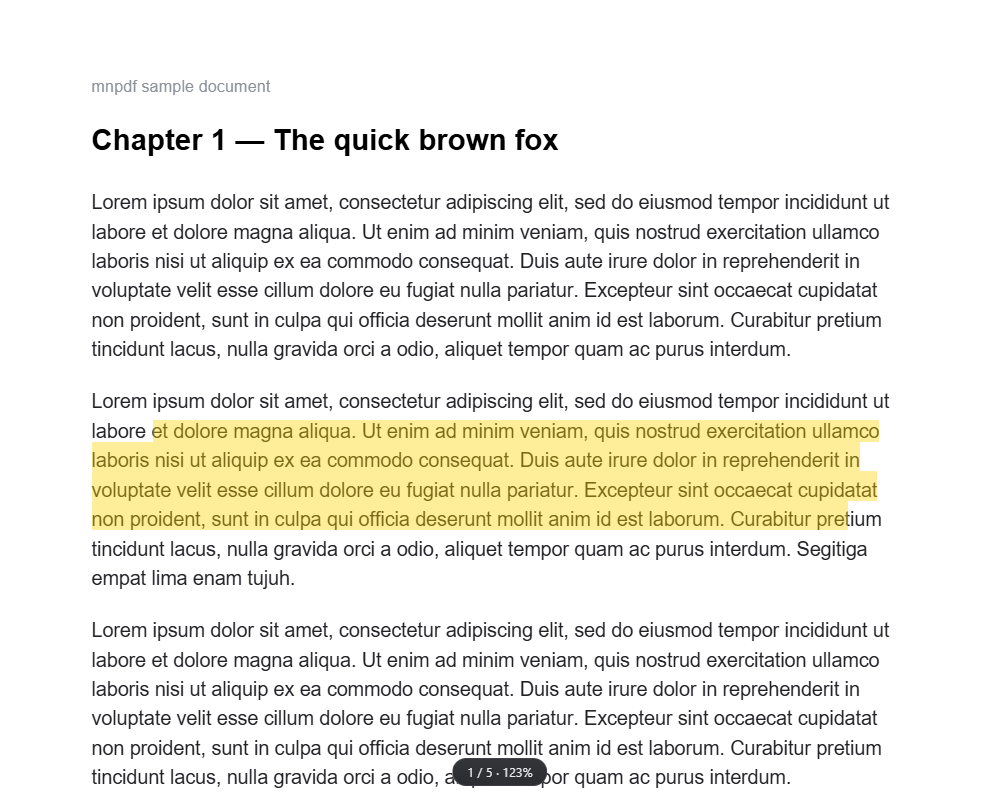
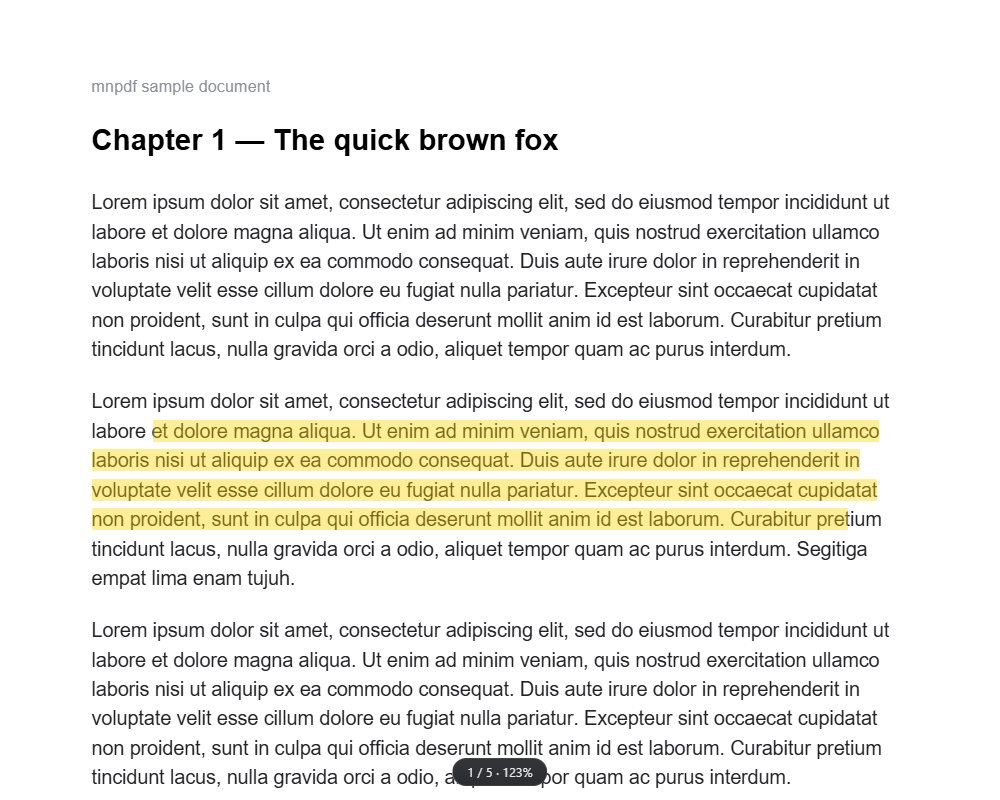
v1.1.1: selection rework — doc-space glyph geometry, per-frame throttled apply, word-mode dblclick-drag, gap-limited continuity

Changed region(s): [[0.093, 0.5312, 0.868, 0.6562]]

diff --git a/src/annos.js b/src/annos.js
@@ -50,17 +50,19 @@ function renderWrapOverlays(i, w, vp) {
 //
 // Chromium's native selection paints stretched/trailing whitespace and
 // overshoots on blank-space drags — unusable on a PDF. So mnpdf prevents it
-// and draws its own selection rectangles from trimmed glyph boxes across ALL
-// pages (the document is one line list in reading order). What is painted
-// blue is exactly what Highlight/Copy act on. The selection persists after
-// release, follows edge auto-scroll across page boundaries, and clears on
-// click/Esc.
+// and draws its own selection rectangles from trimmed glyph boxes across all
+// pages. What is painted blue is exactly what Highlight/Copy act on.
+//
+// All vertical geometry is kept in SCROLLER-DOCUMENT coordinates
+// (viewport y + scrollTop) so the selection stays anchored while edge
+// auto-scroll moves the view. Line boxes are computed once per drag.
 
-let selAnchor = null;   // {node, off, line} — line = entry in the global line list
+let selAnchor = null;   // {node, off, lines, line, wordMode}
 let selState = null;    // {segments: [{srcIdx, rects}], text}
-let selLastApplied = null;
-let selPointer = null;
+let selLastKey = '';
+let selPointer = null;  // {x, y} client coords
 let selRaf = 0;
+let selApplyRaf = 0;
 
 function spanVisibleBox(span) {
   const text = span.textContent || '';
@@ -89,6 +91,15 @@ function spanVisibleBox(span) {
   };
 }
 
+function layerSpans(layer) {
+  const out = [];
+  for (const span of layer.querySelectorAll('span')) {
+    const vis = spanVisibleBox(span);
+    if (vis && vis.bottom - vis.top >= 2 && vis.right - vis.left >= 1) out.push(vis);
+  }
+  return out;
+}
+
 function offsetAtX(vis, x) {
   if (!vis.node || vis.right <= vis.left) return vis.start;
   const frac = (x - vis.left) / (vis.right - vis.left);
@@ -101,42 +112,41 @@ function xOfOffset(vis, off) {
   return vis.left + frac * (vis.right - vis.left);
 }
 
-function layerSpans(layer) {
-  const out = [];
-  for (const span of layer.querySelectorAll('span')) {
-    const vis = spanVisibleBox(span);
-    if (vis && vis.bottom - vis.top >= 2 && vis.right - vis.left >= 1) out.push(vis);
-  }
-  return out;
-}
-
-// every rendered text line of the document, in reading order
+// every rendered text line of the document, in reading order.
+// docTop/docBottom are scroller-document y (stable while the view scrolls).
 function allLines() {
+  const sc = document.getElementById('scroller');
+  const st = sc.scrollTop;
   const out = [];
   document.querySelectorAll('.pagewrap').forEach((wrap) => {
     const layer = wrap.querySelector('.textLayer');
     if (!layer) return;
     const pageIdx = +wrap.dataset.i;
-    for (const vis of layerSpans(layer)) out.push({ wrapEl: wrap, pageIdx, vis });
+    for (const vis of layerSpans(layer)) {
+      out.push({ wrapEl: wrap, pageIdx, vis,
+                 docTop: vis.top + st, docBottom: vis.bottom + st,
+                 lh: vis.bottom - vis.top });
+    }
   });
   return out;
 }
 
-function lineAt(lines, x, y) {
+function lineAt(lines, docY) {
   if (!lines.length) return null;
-  // the line whose CENTER is nearest the pointer — stable in the gaps between
-  // lines and clamps naturally at the first/last line during auto-scroll
+  for (const l of lines) {
+    if (docY >= l.docTop - 2 && docY <= l.docBottom + 2) return l;
+  }
   let best = null, bestD = Infinity;
   for (const l of lines) {
-    const c = (l.vis.top + l.vis.bottom) / 2;
-    const d = Math.abs(y - c);
+    const c = (l.docTop + l.docBottom) / 2;
+    const d = Math.abs(docY - c);
     if (d < bestD) { bestD = d; best = l; }
   }
   return best;
 }
 
-function anchorAt(lines, x, y) {
-  const line = lineAt(lines, x, y);
+function anchorAt(lines, x, docY) {
+  const line = lineAt(lines, docY);
   if (!line) return null;
   const vis = line.vis;
   let off;
@@ -146,48 +156,62 @@ function anchorAt(lines, x, y) {
   return { node: vis.node, off, line };
 }
 
+function snapWord(vis, off) {
+  let i = Math.max(vis.start, Math.min(vis.end, off)) - vis.start;
+  const t = vis.text;
+  while (i > 0 && !/\s/.test(t[i - 1] || ' ')) i--;
+  while (i < t.length && !/\s/.test(t[i] || ' ')) i++;
+  return vis.start + i;
+}
+
 // per-line segments between two anchors (ordered): boundary lines are trimmed
 // to the pointer character, middle lines are full glyphs, and each selected
-// line extends down to the next one so the block is continuous
+// line extends down to the next selected line's top so the block is
+// continuous — but the bridge is capped at ~1.5 line heights, so figures,
+// margins and page gaps stay unpainted.
 function buildSegments(lines, iA, offA, iF, offF) {
   const fi = Math.min(iA, iF), li = Math.max(iA, iF);
   const segs = [];
   for (let i = fi; i <= li; i++) {
-    const vis = lines[i].vis;
+    const line = lines[i];
+    const vis = line.vis;
     let sx = vis.left, sOff = vis.start, ex = vis.right, eOff = vis.end;
     if (i === fi) { sx = xOfOffset(vis, offA); sOff = offA; }
     if (i === li) { ex = xOfOffset(vis, offF); eOff = offF; }
-    if (ex - sx < 0.5) continue; // drop empty boundary slivers
-    segs.push({ vis, sx: Math.min(sx, ex), ex: Math.max(sx, ex), sOff, eOff });
+    if (ex - sx < 0.5) continue;
+    segs.push({ line, sx: Math.min(sx, ex), ex: Math.max(sx, ex), sOff, eOff,
+                docTop: line.docTop, docBottom: line.docBottom });
   }
-  // no vertical gaps: extend each line down to the next selected line's top
   for (let i = 1; i < segs.length; i++) {
-    if (segs[i].vis.top > segs[i - 1].vis.bottom && lines[fi + i - 1].wrapEl === lines[fi + i].wrapEl) {
-      segs[i].topPx = segs[i - 1].vis.bottom;
-    }
+    const prev = segs[i - 1], cur = segs[i];
+    if (prev.line.wrapEl !== cur.line.wrapEl) continue;
+    const gap = cur.docTop - prev.docBottom;
+    if (gap > 0 && gap < prev.lh * 1.5) cur.docTop = prev.docBottom;
   }
   return segs;
 }
 
-function drawSelection(segs, lines, fi) {
+function drawSelection(segs) {
+  const sc = document.getElementById('scroller');
+  const st = sc.scrollTop;
   const byPage = new Map();
   const parts = [];
-  segs.forEach((seg, k) => {
-    const line = lines[fi + k];
-    const topPx = seg.topPx ?? seg.vis.top;
-    const vp = viewportFor(line.pageIdx);
-    if (!vp) return;
-    const wr = line.wrapEl.getBoundingClientRect();
-    const p1 = vp.convertToPdfPoint(seg.sx - wr.left, topPx - wr.top);
-    const p2 = vp.convertToPdfPoint(seg.ex - wr.left, seg.vis.bottom - wr.top);
+  for (const seg of segs) {
+    const vp = viewportFor(seg.line.pageIdx);
+    if (!vp) continue;
+    const wr = seg.line.wrapEl.getBoundingClientRect();
+    const topView = seg.docTop - st;
+    const botView = seg.docBottom - st;
+    const p1 = vp.convertToPdfPoint(seg.sx - wr.left, topView - wr.top);
+    const p2 = vp.convertToPdfPoint(seg.ex - wr.left, botView - wr.top);
     const rect = [
       Math.min(p1[0], p2[0]), Math.min(p1[1], p2[1]),
       Math.max(p1[0], p2[0]), Math.max(p1[1], p2[1]),
     ];
-    if (!byPage.has(line.pageIdx)) byPage.set(line.pageIdx, { srcIdx: line.pageIdx, rects: [] });
-    byPage.get(line.pageIdx).rects.push(rect);
-    parts.push(seg.vis.text.slice(seg.sOff - seg.vis.start, seg.eOff - seg.vis.start));
-  });
+    if (!byPage.has(seg.line.pageIdx)) byPage.set(seg.line.pageIdx, { srcIdx: seg.line.pageIdx, rects: [] });
+    byPage.get(seg.line.pageIdx).rects.push(rect);
+    parts.push(seg.line.vis.text.slice(seg.sOff - seg.line.vis.start, seg.eOff - seg.line.vis.start));
+  }
   return { segments: [...byPage.values()], text: parts.join(' ').replace(/\s+/g, ' ').trim() };
 }
 
@@ -213,7 +237,6 @@ function renderSelection() {
   }
 }
 
-export function renderSelectionDebug() { renderSelection(); }
 function clearSelection() {
   selState = null;
   renderSelection();
@@ -225,23 +248,27 @@ export function currentSelection() {
   return { segments: selState.segments, text: selState.text };
 }
 
-function applySelectionAt(x, y) {
-  const lines = allLines();
-  const iA = lines.findIndex((l) => l.vis.node === selAnchor.node);
-  if (iA === -1) return; // anchor page re-rendered; keep last state
-  const dir = y >= (selLastY ?? y) ? 1 : -1;
-  selLastY = y;
-  const focus = anchorAt(lines, x, y, dir);
+let selLastLine = null;
+
+function applySelectionAt(x, docY) {
+  const focus = lineAt(selAnchor.lines, docY);
   if (!focus) return;
-  const last = selLastApplied;
-  if (last && last.node === focus.line.vis.node && last.off === focus.off) return;
-  selLastApplied = focus;
-  const iF = lines.indexOf(focus.line);
-  selState = drawSelection(buildSegments(lines, iA, selAnchor.off, iF, focus.off), lines, fi2(iA, iF));
+  const key = `${lines_key(focus)}:${focusOffAt(focus, x)}`;
+  if (key === selLastKey) return;
+  selLastKey = key;
+  const iA = selAnchor.lines.indexOf(selAnchor.line);
+  const iF = lines_key(focus);
+  selState = drawSelection(buildSegments(selAnchor.lines, iA, selAnchor.off, iF, focusOffAt(focus, x)));
   renderSelection();
 }
-let selLastY = null;
-function fi2(iA, iF) { return Math.min(iA, iF); }
+
+function lines_key(l) { return selAnchor.lines.indexOf(l); }
+function focusOffAt(l, x) {
+  const vis = l.vis;
+  if (x <= vis.left + 2) return vis.start;
+  if (x >= vis.right - 2) return vis.end;
+  return offsetAtX(vis, x);
+}
 
 function initManualSelection() {
   document.addEventListener(
@@ -252,28 +279,30 @@ function initManualSelection() {
       if (!tlEl) return;
       e.preventDefault(); // Chromium's selection paint is what goes wrong
       clearSelection();
+      const sc = document.getElementById('scroller');
+      const docY = e.clientY + sc.scrollTop;
       const lines = allLines();
-      const a = anchorAt(lines, e.clientX, e.clientY, 1);
-      if (!a) return;
-      if (e.detail >= 2) {
-        // double click: word; triple click: whole line
-        const vis = a.line.vis;
-        let sOff = vis.start, eOff = vis.end;
-        if (e.detail === 2) {
-          const off = offsetAtX(vis, e.clientX);
-          const t = vis.text;
-          while (sOff < off && /\s/.test(t[sOff - vis.start] || '')) sOff++;
-          while (eOff > off && /\s/.test(t[eOff - 1 - vis.start] || '')) eOff--;
-          while (sOff > vis.start && !/\s/.test(t[sOff - 1 - vis.start] || '')) sOff--;
-          while (eOff < vis.end && !/\s/.test(t[eOff - vis.start] || '')) eOff++;
-        }
-        const i = lines.indexOf(a.line);
-        selState = drawSelection(buildSegments(lines, i, sOff, i, eOff), lines, i);
+      const line = lineAt(lines, docY);
+      if (!line) return;
+      const vis = line.vis;
+      let off;
+      if (e.clientX <= vis.left + 2) off = vis.start;
+      else if (e.clientX >= vis.right - 2) off = vis.end;
+      else off = offsetAtX(vis, e.clientX);
+      const wordMode = e.detail >= 2;
+      if (wordMode) {
+        // double click: the word under the press; dragging extends by words
+        let sOff = off, eOff = off;
+        const t = vis.text;
+        while (sOff > vis.start && !/\s/.test(t[sOff - 1 - vis.start] || ' ')) sOff--;
+        while (eOff < vis.end && !/\s/.test(t[eOff - vis.start] || ' ')) eOff++;
+        selState = drawSelection(buildSegments([line], 0, sOff, 0, eOff), [line], 0);
         renderSelection();
-        return;
+        off = sOff;
       }
-      selAnchor = { node: a.line.vis.node, off: a.off, line: a.line };
+      selAnchor = { node: vis.node, off, line, lines, wordMode };
       selPointer = { x: e.clientX, y: e.clientY };
+      selLastKey = '';
       startSelAutoScroll();
     },
     true,
@@ -283,7 +312,7 @@ function initManualSelection() {
     (e) => {
       if (!selAnchor || !(e.buttons & 1)) return;
       selPointer = { x: e.clientX, y: e.clientY };
-      applySelectionAt(e.clientX, e.clientY);
+      scheduleApply();
     },
     true,
   );
@@ -294,7 +323,17 @@ function initManualSelection() {
     if (e.key === 'Escape' && selState) { clearSelection(); selAnchor = null; stopSelAutoScroll(); }
   });
   document.addEventListener('mnpdf:scroll', renderSelection);
-  document.addEventListener('mnpdf:zoom', renderSelection);
+  document.addEventListener('mnpdf:zoom', () => { selAnchor = null; renderSelection(); });
+}
+
+function scheduleApply() {
+  if (selApplyRaf) return;
+  selApplyRaf = requestAnimationFrame(() => {
+    selApplyRaf = 0;
+    if (!selAnchor) return;
+    const sc = document.getElementById('scroller');
+    applySelectionAt(selPointer.x, selPointer.y + sc.scrollTop);
+  });
 }
 
 // edge auto-scroll while selecting: hold near the top/bottom and the document
@@ -312,7 +351,7 @@ function startSelAutoScroll() {
     else if (selPointer.y > sr.bottom - M) v = Math.min(28, Math.ceil((selPointer.y - (sr.bottom - M)) * 0.35) + 3);
     if (v) {
       scroller.scrollTop += v;
-      applySelectionAt(selPointer.x, selPointer.y);
+      scheduleApply();
     }
     selRaf = requestAnimationFrame(tick);
   };
